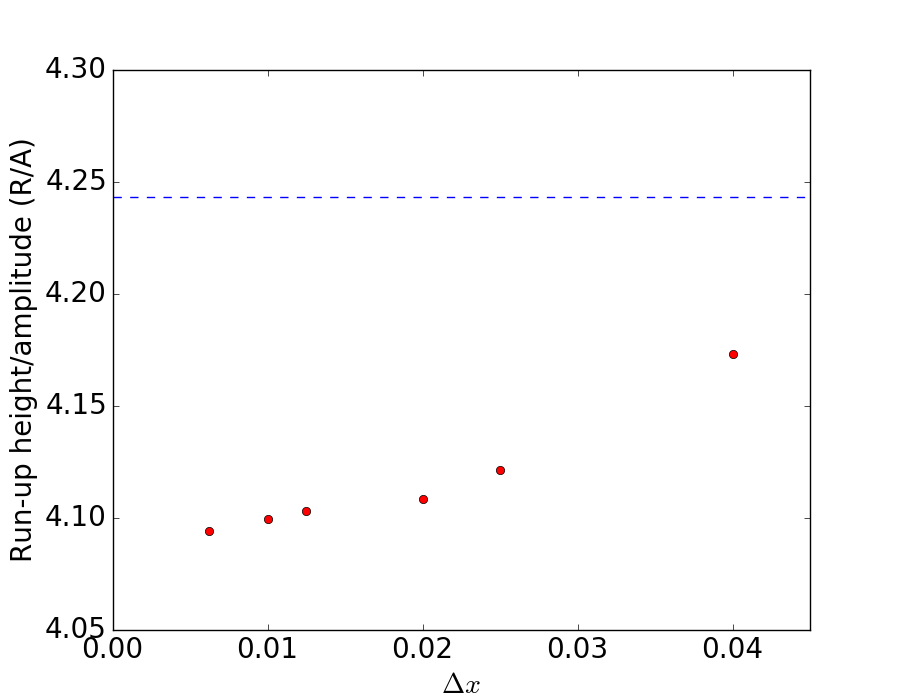
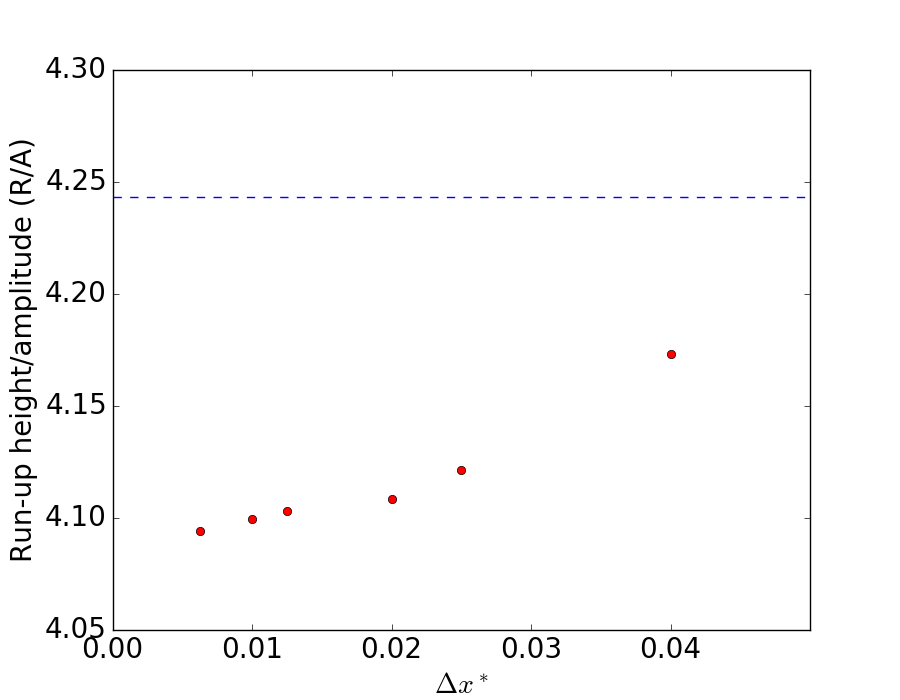
modified figures 7 and 15

diff --git a/Dispersive_modeling.tex b/Dispersive_modeling.tex
@@ -184,8 +184,7 @@ based on their large scale experiments of the wave propagation of undular bores 
 
 Naturally, there is a desire to exploit the efficient and well established shock capturing framework of the NLSW models also in a dispersive context.
 \cite{Antuono:2009} remolded the whole Boussinesq equations into a framework on hyperbolic form.
-However, most of the recently developed Boussinesq models are based on some combination of approximate Riemann solvers, with TVD limiters, for the hydrostatic transport terms and finite differences
-for dispersion terms \citep{Erduran2005,Kim2009,Shiach:2009,Roeber:2010,Dutykh:2011,shi2012high}. Among other models, this has led to the popular
+However, most of the recently developed Boussinesq models are based on some combination of approximate Riemann solvers, with TVD limiters, for the hydrostatic transport terms and finite differences for dispersion terms  \citep{Erduran2005,Kim2009,Shiach:2009,Roeber:2010,Dutykh:2011,shi2012high}. Among other models, this has led to the popular
 \textsc{Funwave-TVD} and \textsc{Coulwave-TVD} applications. 
 In most Boussinesq models that include runup on beaches, the dispersion term
 is turned off in the vicinity of the shoreline to avoid interference of
@@ -1011,7 +1010,7 @@ can be split into two groups;
 are similar, while the \BoussClaw
 and the Serre results are similar. 
 The wave front from the 
-\BoussClaw model is somewhat more advanced towqard  the beach than that from the BIM model.
+\BoussClaw model is somewhat more advanced toward  the beach than that from the BIM model.
 Still, the results from the Serre and \BoussClaw models are clearly
 closer to those of the BIM model, than those from the other group. 
 Especially, the wave amplitudes are well  determined by the \BoussClaw
@@ -1062,10 +1061,11 @@ Other measures of nonlinearity than $\epsilon_B$ may be used for model decisions
 $\epsilon_B$, $u^*/\sqrt{H^*}$ ($H^*$ is the total, dimensionless, flow depth) and the maximum frontal angle 
 as a function of the crest location.
 When the the BIM model yields a vertical front at $x^*=4.09$, 
-we obtain $u^*/\sqrt{H^*} = 1.034$ and a maximum surface slope angle of $39.1^\circ$. 
+we obtain $u^*/\sqrt{H^*} = 1.034$ and the surface slope angle of $39.1^\circ$ at the peak. 
 %\todo{OK?}
 For the present case this might indicate 
-that the value of $u^*/\sqrt{H^*}$\marginpar{Is it the maximum or value at the peak?}
+that the value of $u^*/\sqrt{H^*}$
+%\marginpar{Is it the maximum or value at the peak? J:it's the value at the peak}
  at the peak surpassing unity or the slope angle surpassing  
 $30^\circ$ may be sounder criteria for identifying breaking than $\epsilon_B>0.8$.
  
@@ -1201,7 +1201,7 @@ and in this case the actual onset of breaking occurred for $A/h \approx 2$, whic
 than what would be predicted by the threshold.  
 Hence, a  threshold criterion may lead to an erroneous breaking point as well as an 
 inaccurate description of the later stages of the shoaling.
-It is noted that the artificial effect discovered would depend on the slope, 
+It is noted that the artificial effect discovered would depend on the slope, \todo{Jihwan: This is not clear to me.}
 and a $0.8$ threshold may well work better on a much gentler slope as it is primarily derived based on 
 solitary wave properties in constant depth. On the other hand, $1:19.85$ slope is already quite gentle,
 and the offset between the reference solution and Boussinesq models using this criteria may
